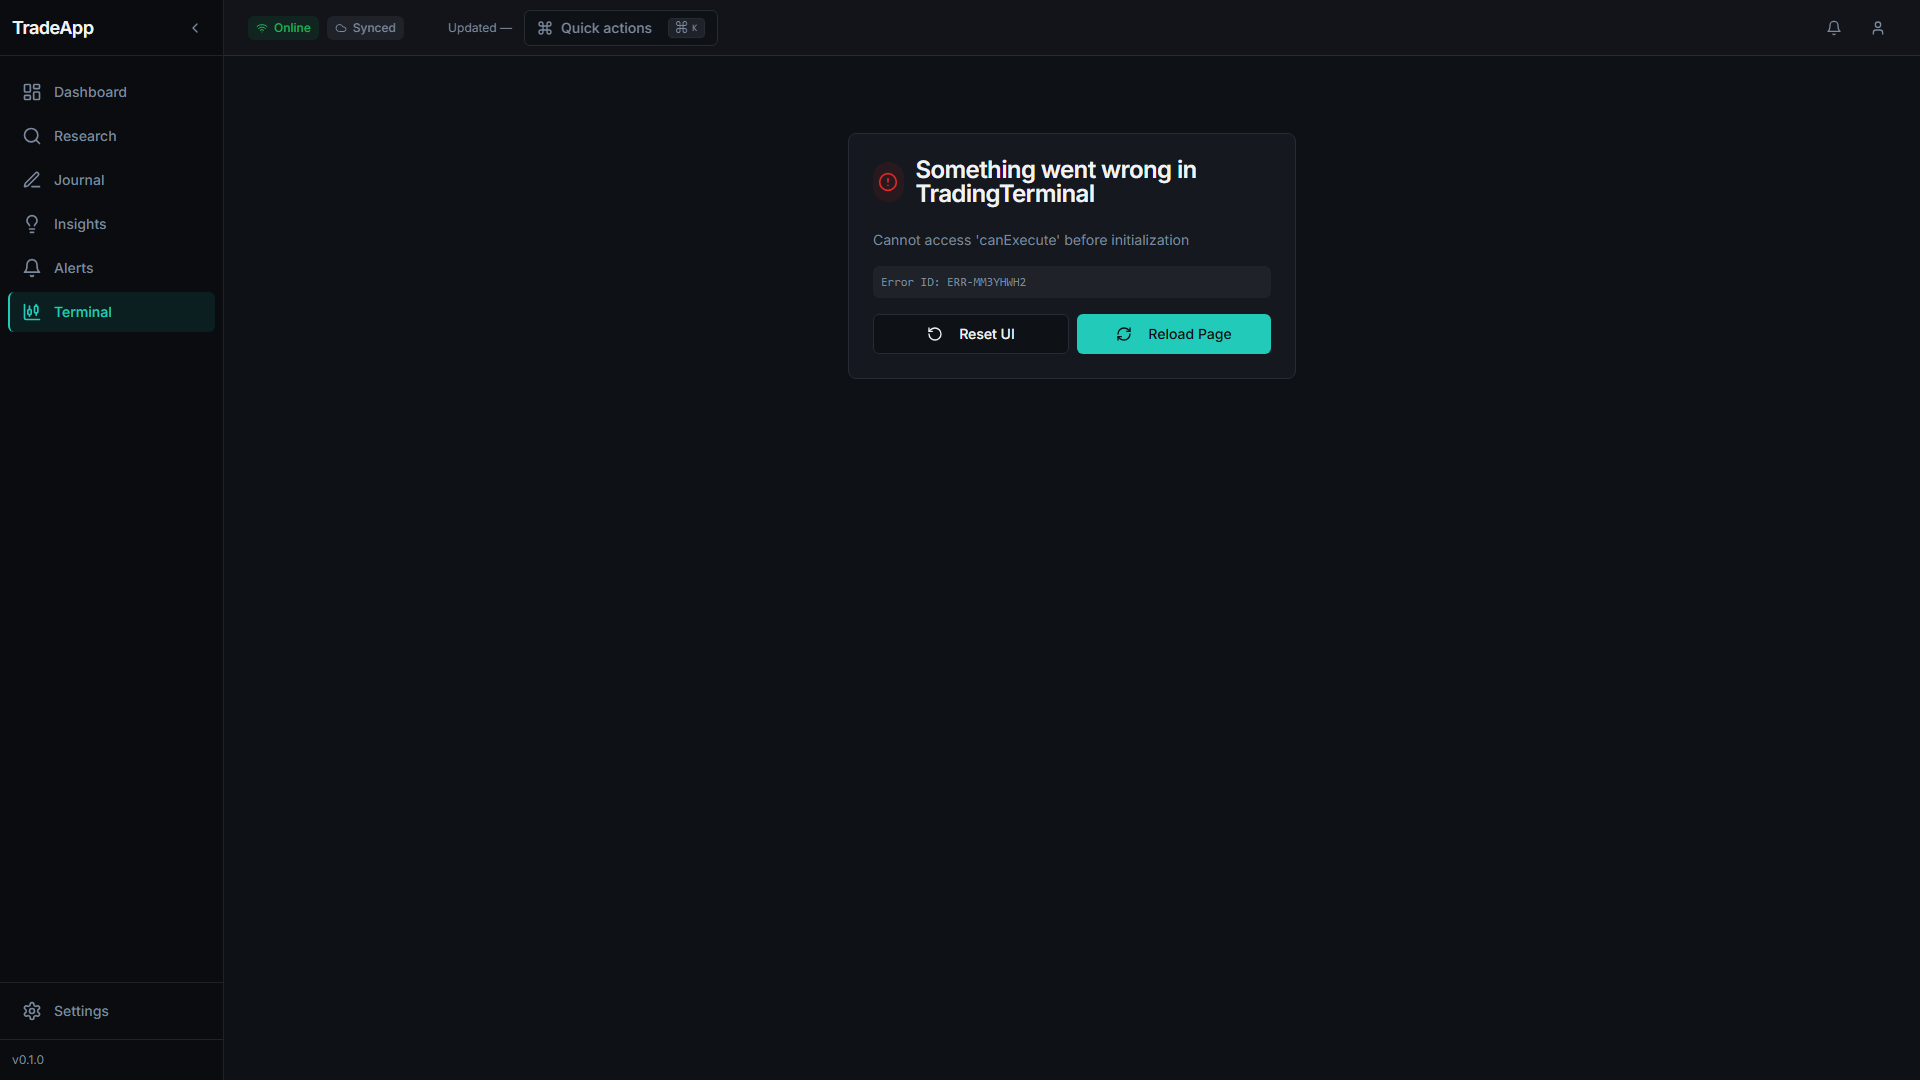
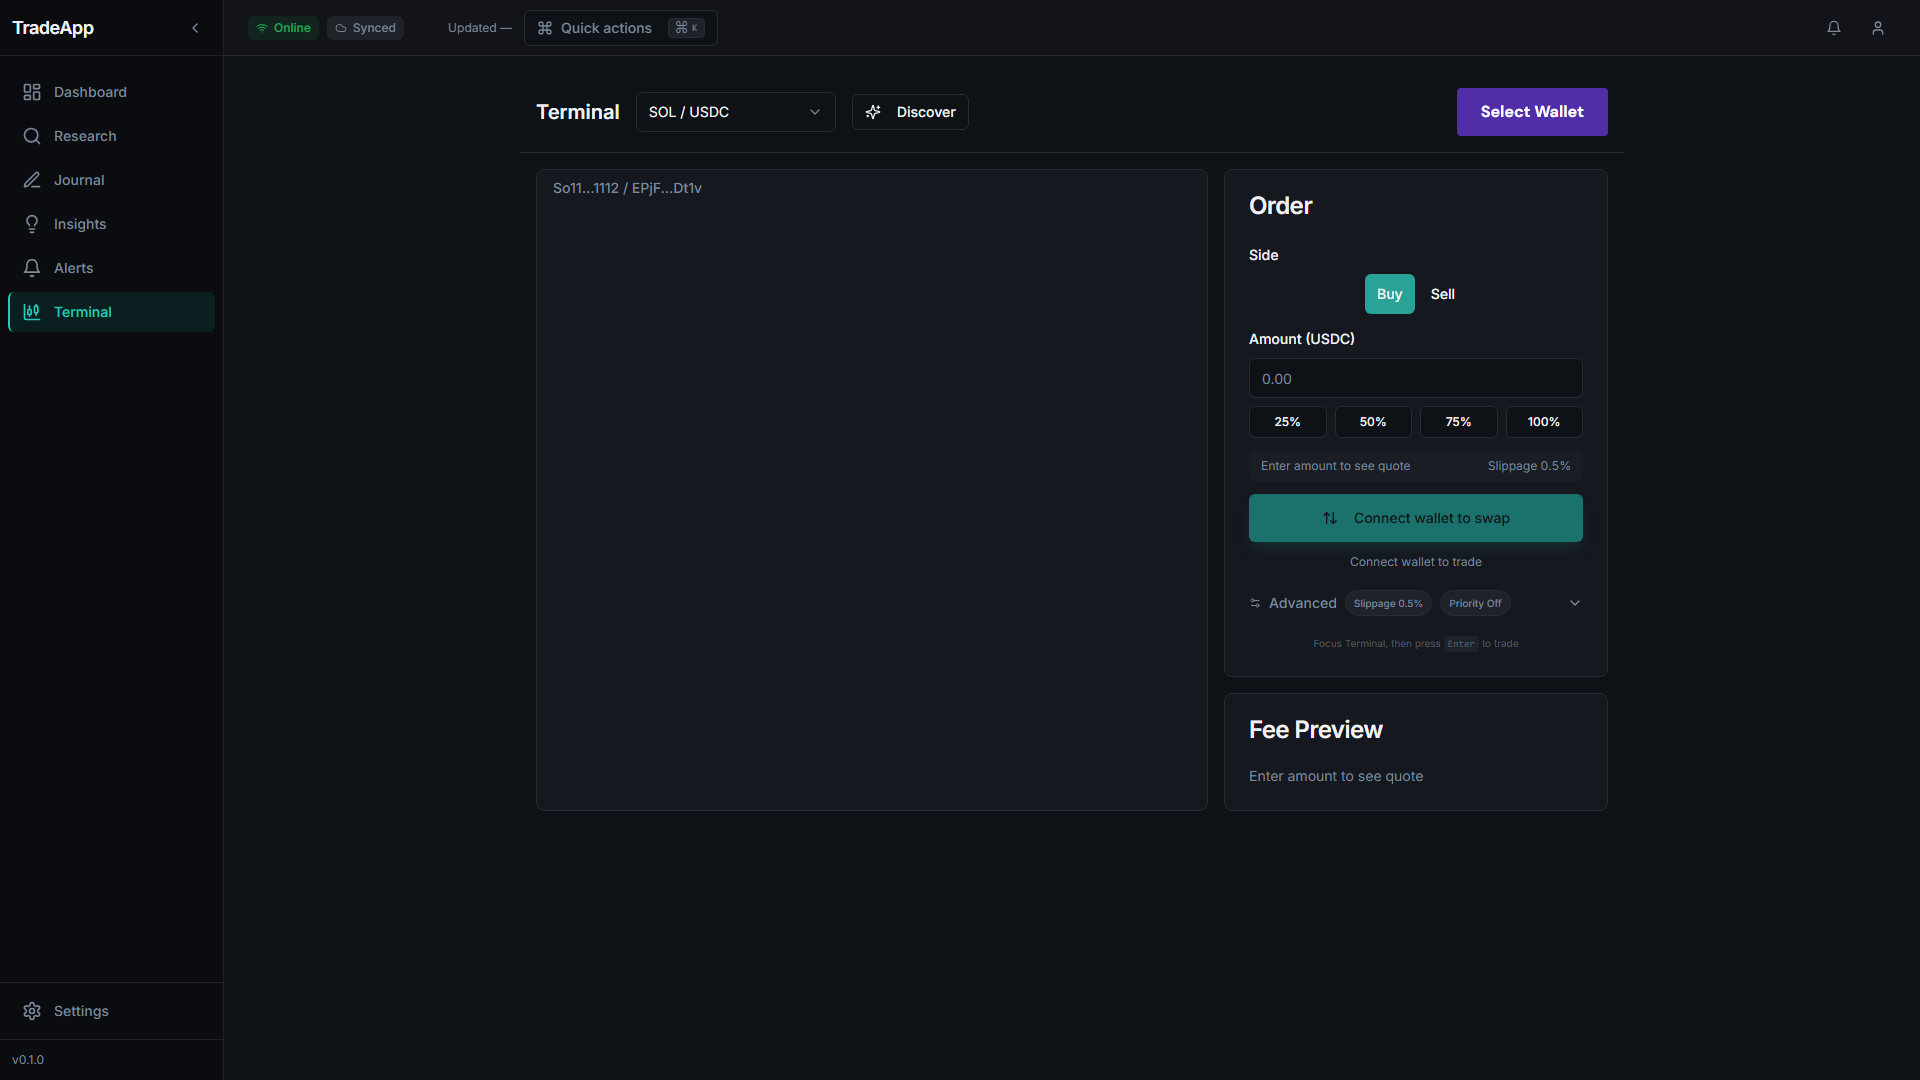
chore(audit): refresh capture artifacts after discover fix
Made-with: Cursor

diff --git a/src/components/terminal/OrderForm.tsx b/src/components/terminal/OrderForm.tsx
@@ -83,44 +83,6 @@ export function OrderForm({ wallet, connection }: OrderFormProps) {
     return false;
   }, []);
 
-  // Sprint 3.1 PATCH 1: Container-scoped keyboard handler (replaces global window listener)
-  const handleContainerKeyDown = useCallback(
-    (e: React.KeyboardEvent<HTMLDivElement>) => {
-      // Guard: only handle if focus is inside this container
-      const root = rootRef.current;
-      if (!root || !root.contains(document.activeElement)) return;
-
-      // Guard: never trigger when focus is on editable elements
-      if (isEditableTarget(e.target)) {
-        // Allow Enter to work normally in inputs (submit forms, etc.)
-        return;
-      }
-
-      // Enter to trigger trade (when enabled and dialog not open)
-      if (e.key === 'Enter' && !isConfirmOpen) {
-        if (canExecute) {
-          e.preventDefault();
-          setIsConfirmOpen(true);
-        }
-        return;
-      }
-
-      // Enter in dialog to confirm
-      if (e.key === 'Enter' && isConfirmOpen && canExecute) {
-        e.preventDefault();
-        void handleConfirmSwap();
-        return;
-      }
-
-      // Esc to close dialog
-      if (e.key === 'Escape' && isConfirmOpen) {
-        e.preventDefault();
-        setIsConfirmOpen(false);
-      }
-    },
-    [canExecute, isConfirmOpen, handleConfirmSwap, isEditableTarget]
-  );
-
   // Memoized derived state to prevent recalculation
   const isWalletConnected = useMemo(() => wallet.publicKey !== null, [wallet.publicKey]);
 
@@ -194,6 +156,36 @@ export function OrderForm({ wallet, connection }: OrderFormProps) {
       setIsExecuting(false);
     }
   }, [canExecute, wallet.publicKey, wallet.signTransaction, executeSwap, connection]);
+
+  // Sprint 3.1 PATCH 1: Container-scoped keyboard handler (replaces global window listener)
+  const handleContainerKeyDown = useCallback(
+    (e: React.KeyboardEvent<HTMLDivElement>) => {
+      const root = rootRef.current;
+      if (!root || !root.contains(document.activeElement)) return;
+
+      if (isEditableTarget(e.target)) return;
+
+      if (e.key === 'Enter' && !isConfirmOpen) {
+        if (canExecute) {
+          e.preventDefault();
+          setIsConfirmOpen(true);
+        }
+        return;
+      }
+
+      if (e.key === 'Enter' && isConfirmOpen && canExecute) {
+        e.preventDefault();
+        void handleConfirmSwap();
+        return;
+      }
+
+      if (e.key === 'Escape' && isConfirmOpen) {
+        e.preventDefault();
+        setIsConfirmOpen(false);
+      }
+    },
+    [canExecute, isConfirmOpen, handleConfirmSwap, isEditableTarget]
+  );
 
   // Fetch balances only when necessary deps change
   useEffect(() => {

diff --git a/docs/audit/terminal_ui_screenshot_index.md b/docs/audit/terminal_ui_screenshot_index.md
@@ -2,14 +2,11 @@
 
 | UI-ID | Status | Screenshot |
 |-------|-------|------------|
-| UI-001 | CAPTURED | [UI-001](terminal_ui_screenshots/UI-001-terminal-main.png) |
-| UI-002 | NOT_CAPTURED | - |
-| UI-003 | NOT_CAPTURED | - |
-| UI-006 | CAPTURED | [UI-006](terminal_ui_screenshots/UI-006-wallet-modal.png) |
-| UI-007 | CAPTURED | [UI-007](terminal_ui_screenshots/UI-007-pair-dropdown.png) |
-| UI-008 | CAPTURED | [UI-008](terminal_ui_screenshots/UI-008-advanced-collapsed.png) |
-| UI-009 | CAPTURED | [UI-009](terminal_ui_screenshots/UI-009-advanced-expanded.png) |
-| UI-010 | CAPTURED | [UI-010](terminal_ui_screenshots/UI-010-priority-fee-on.png) |
-| UI-011 | CAPTURED | [UI-011](terminal_ui_screenshots/UI-011-quote-loading.png) |
-| UI-012 | CAPTURED | [UI-012](terminal_ui_screenshots/UI-012-quote-success.png) |
-| UI-013 | CAPTURED | [UI-013](terminal_ui_screenshots/UI-013-quote-error.png) |
+| UI-002 | CAPTURED | [UI-002](terminal_ui_screenshots/UI-002-discover-overlay.png) |
+| UI-003 | CAPTURED | [UI-003](terminal_ui_screenshots/UI-003-discover-not-bonded.png) |
+| UI-004 | CAPTURED | [UI-004](terminal_ui_screenshots/UI-004-discover-bonded.png) |
+| UI-005 | CAPTURED | [UI-005](terminal_ui_screenshots/UI-005-discover-ranked.png) |
+| UI-014 | CAPTURED | [UI-014](terminal_ui_screenshots/UI-014-search-empty.png) |
+| UI-015 | CAPTURED | [UI-015](terminal_ui_screenshots/UI-015-loading.png) |
+| UI-016 | CAPTURED | [UI-016](terminal_ui_screenshots/UI-016-empty-no-tokens.png) |
+| UI-017 | CAPTURED | [UI-017](terminal_ui_screenshots/UI-017-error-boundary.png) |

diff --git a/docs/audit/terminal_ui_run_summary.md b/docs/audit/terminal_ui_run_summary.md
@@ -1,27 +1,24 @@
 # Terminal UI Run Summary
 
-**Status:** CUT_OVERLOAD
-**Reason:** OVERLOAD_THRESHOLD
+**Status:** COMPLETED
+**Reason:** NORMAL_END
 **Plan:** discover
-**Started:** 2026-02-26T21:18:13.630Z
-**Ended:** 2026-02-26T21:19:15.762Z
+**Started:** 2026-02-27T08:02:10.194Z
+**Ended:** 2026-02-27T08:02:32.217Z
 
 ## Stats
-- Captured: 9
-- Not Captured: 2
-- Timeouts: 4
-- Total Failures: 2
+- Captured: 8
+- Not Captured: 0
+- Timeouts: 0
+- Total Failures: 0
 
 ## Results
 
-- **UI-001**: CAPTURED
-- **UI-002**: NOT_CAPTURED (TIMEOUT)
-- **UI-003**: NOT_CAPTURED (TIMEOUT)
-- **UI-006**: CAPTURED
-- **UI-007**: CAPTURED
-- **UI-008**: CAPTURED
-- **UI-009**: CAPTURED
-- **UI-010**: CAPTURED
-- **UI-011**: CAPTURED
-- **UI-012**: CAPTURED
-- **UI-013**: CAPTURED
+- **UI-002**: CAPTURED
+- **UI-003**: CAPTURED
+- **UI-004**: CAPTURED
+- **UI-005**: CAPTURED
+- **UI-014**: CAPTURED
+- **UI-015**: CAPTURED
+- **UI-016**: CAPTURED
+- **UI-017**: CAPTURED
